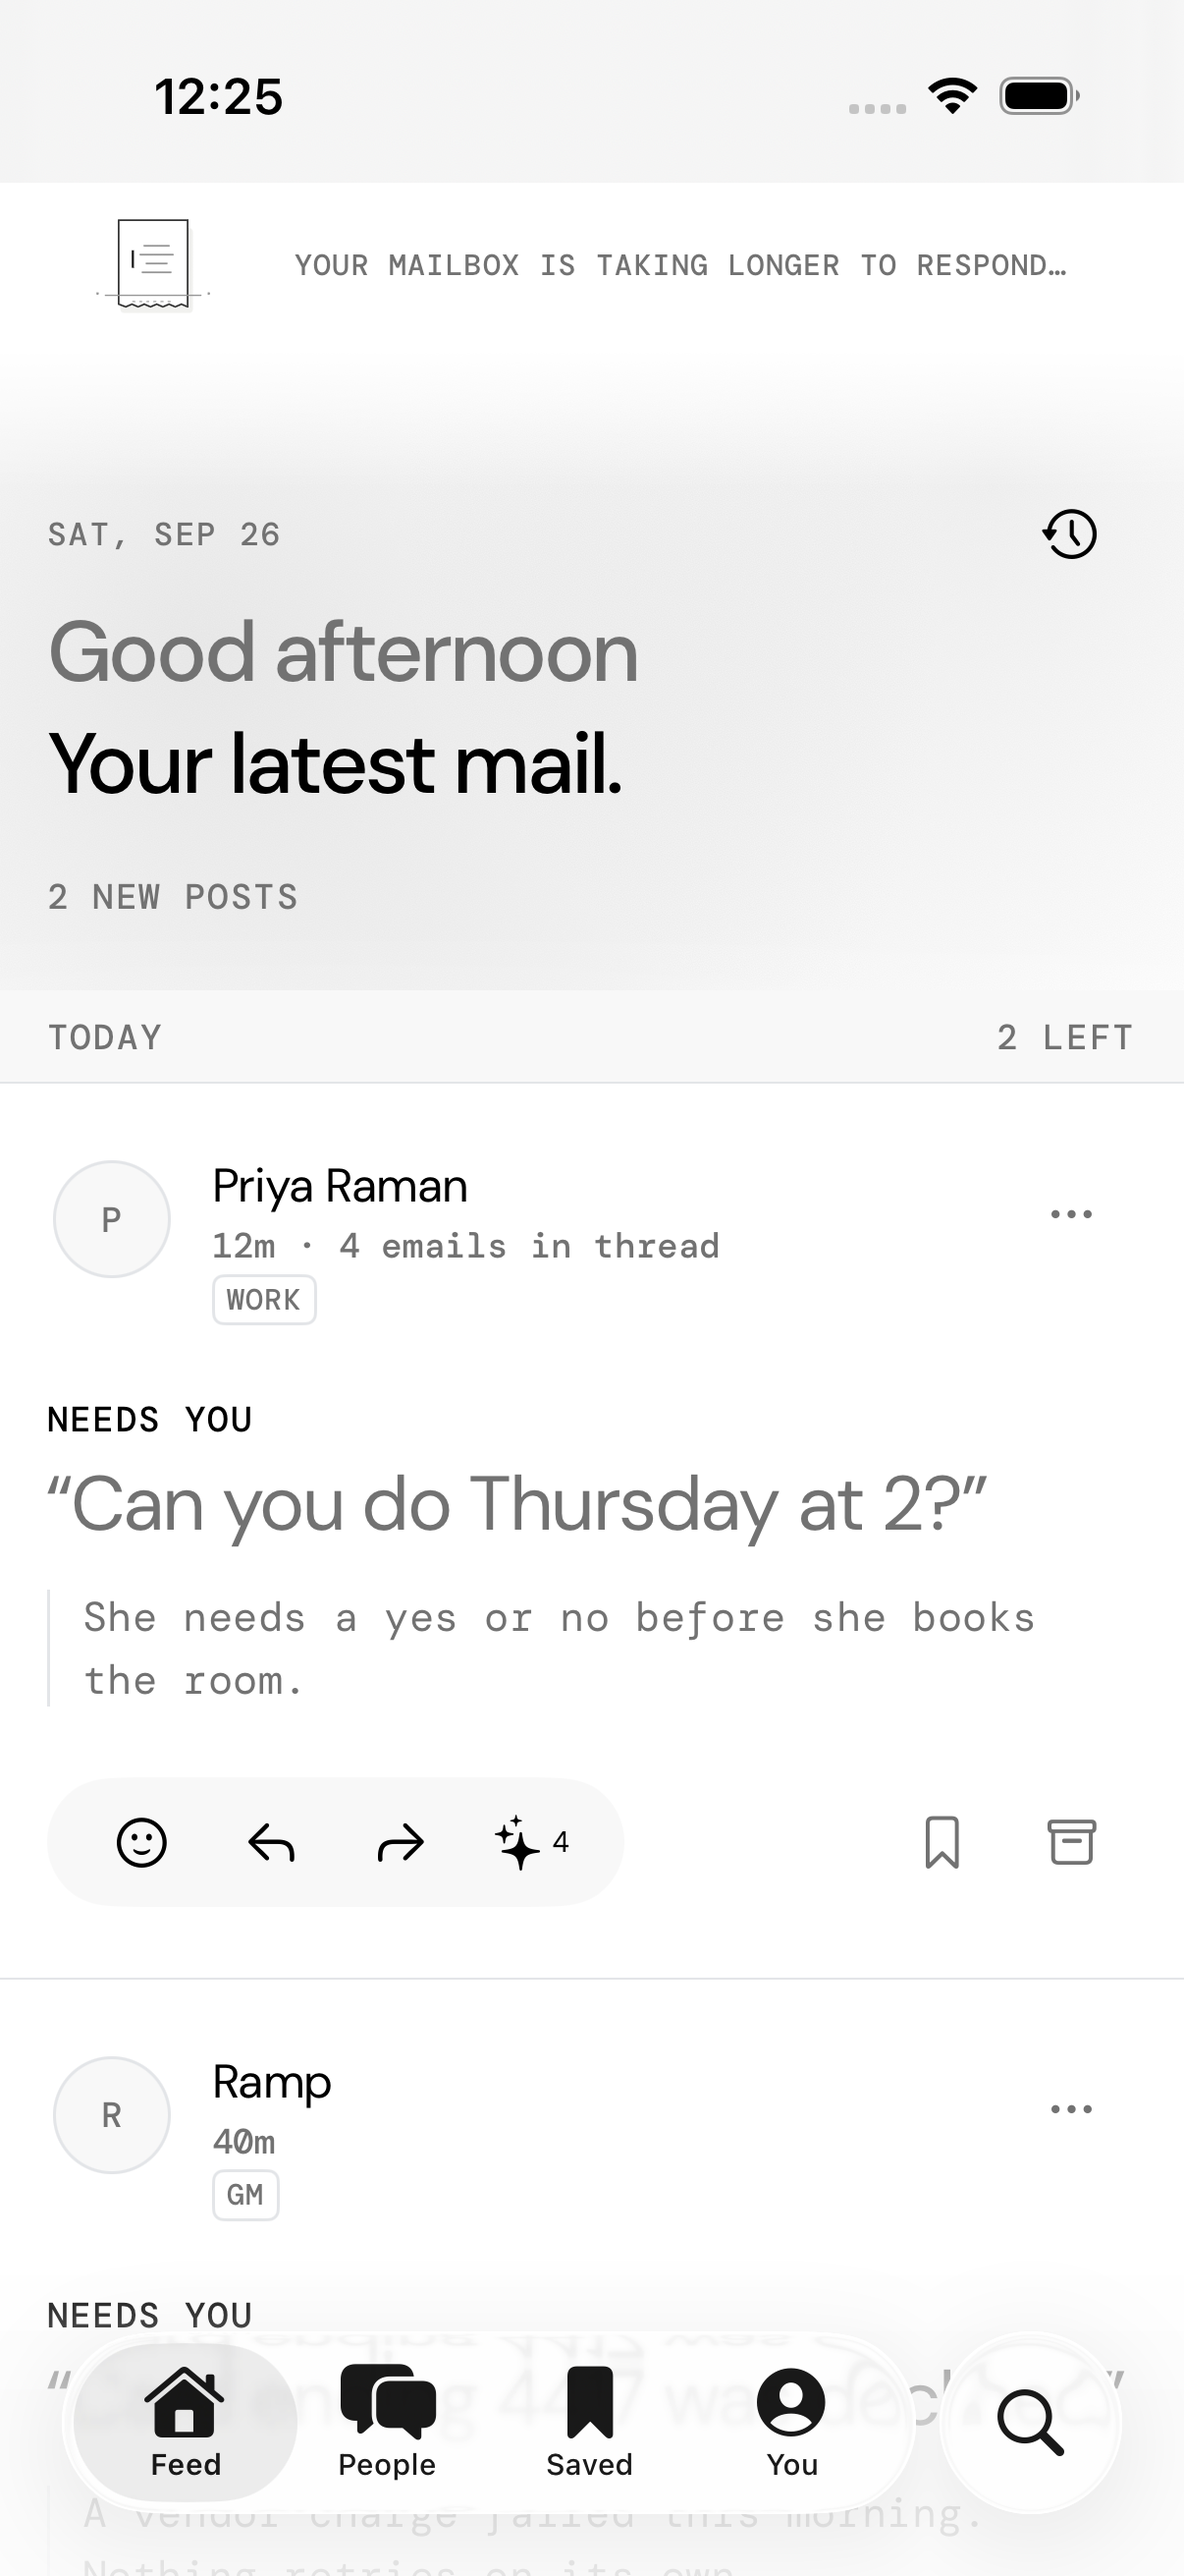
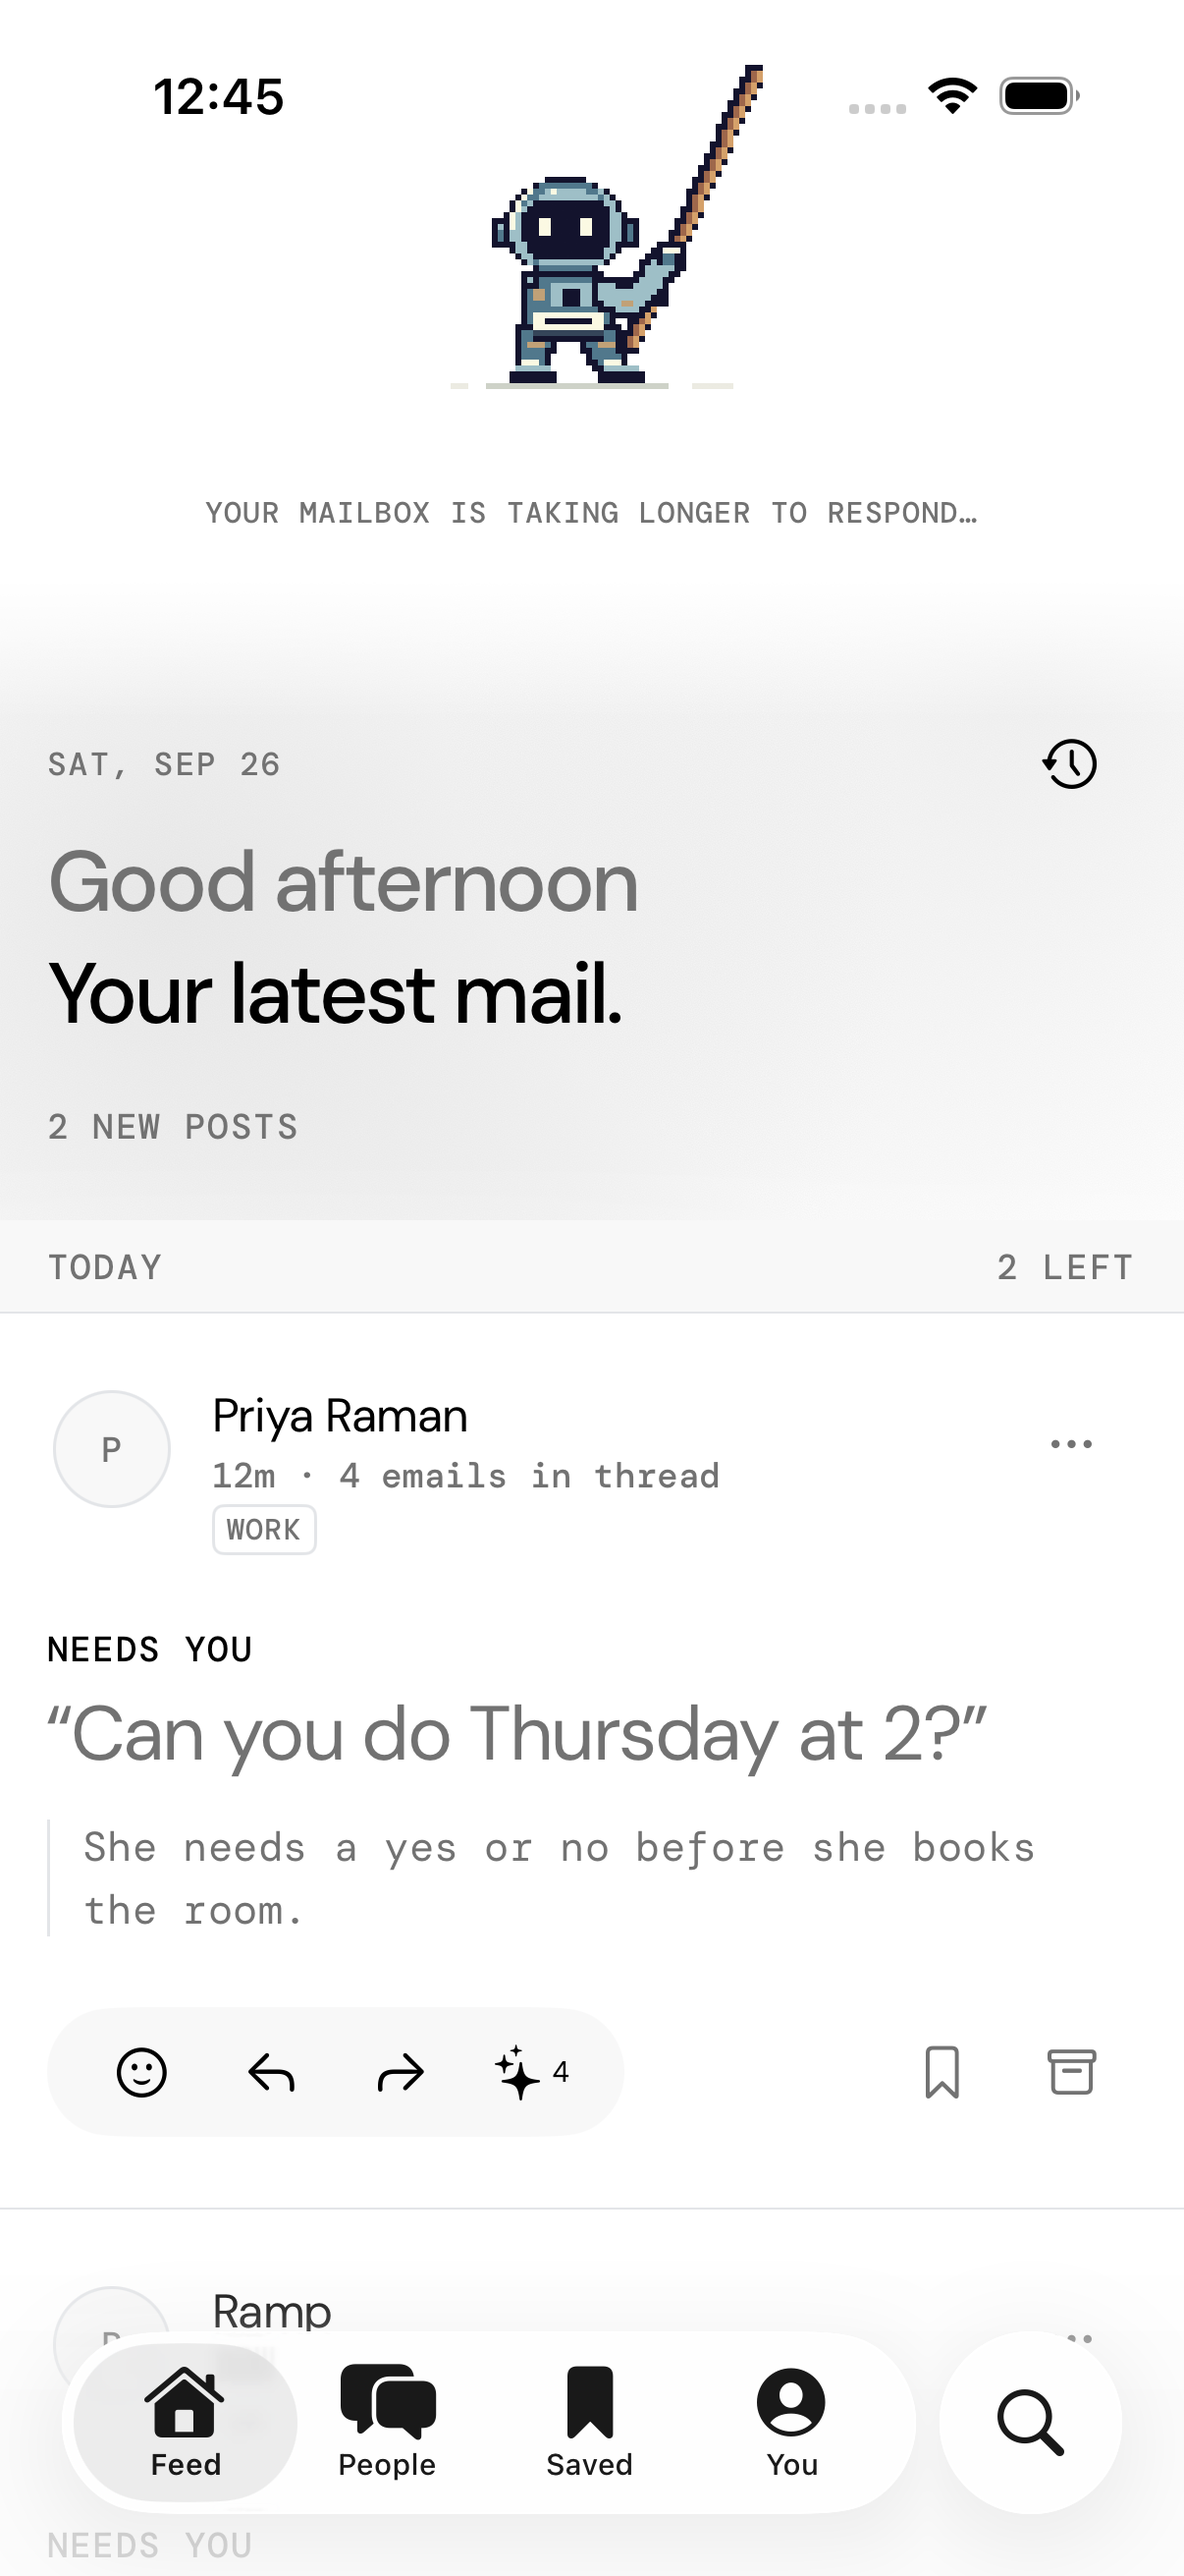
Record combined feed recovery checks and TestFlight upload [skip render]

diff --git a/product_docs/feed-recovery-2026-09-26.md b/product_docs/feed-recovery-2026-09-26.md
@@ -9,7 +9,7 @@ Craig reported a persistent “Marked complete” banner, scroll passes that did
 - Google refresh-token responses with HTTP 400 / `invalid_grant` now surface the existing reconnection path. One-time authorization-code failures, malformed responses and transient server errors remain retryable. The saved real-account Simulator grant returned this exact error in 0.28 seconds; no message body, token or account identity was included in diagnostic output. This establishes the Simulator failure, not the iPhone's exact failure.
 - An unauthorized read exposes Reconnect and retains its recorded intent. Successful reconnection delivers those saved reads, preserves current-session cards, and reconnects the live arrival stream. The pull status also distinguishes Reconnect from Retry.
 
-## Verification in progress
+## Verification
 
 - The completed-banner test failed before its fix and passes afterward.
 - Production FeedStore integration: 168 checks passed, including reconnection recovery and banner persistence.
@@ -17,12 +17,15 @@ Craig reported a persistent “Marked complete” banner, scroll passes that did
 - Full native Simulator test build passed for arm64 and x86_64.
 - Native touch suite on iOS 26.5: all six checks passed. The same refresh-read check failed against the older binary and passed against the correction (`/tmp/di-260926-refresh-before.xcresult`, `/tmp/di-260926-recovery-ui.xcresult`).
 - Three strengthened native checks passed: visible section count decreases plus read-card removal next session; count/read updates during held refresh; completed banner dismissal with the honest receipt retained in Activity (`/tmp/di-260926-count-banner-ui.xcresult`).
-- Live-account recovery remains in progress; no TestFlight upload is claimed in this record yet.
+- Final combined recovery + robot implementation: all seven native touch tests passed on iOS 26.5, zero failures in 111.6 seconds (`/tmp/di-260926-combined-ui-final.xcresult`). Retained captures prove the reduced count/read state during robot refresh and the completed Activity receipt.
+- Live-account recovery remains pending Google sign-in. The cached real feed and explicit Reconnect state were verified; authenticated refresh/read confirmation is not claimed. Distribution is recorded separately in `native-release-2609261241.md`.
 
-Simulator initially stalled before app launch on both iOS runtimes, including a fresh device. After the other task stopped its QA device, shutting down the simulators and restarting Simulator.app, CoreSimulatorService and SimulatorTrampoline recovered native launches. Account storage was preserved. Infrastructure startup failures were not counted as app test failures.
+Simulator initially stalled before app launch on both iOS runtimes, including a fresh device. After the other task stopped its QA device, shutting down the simulators and restarting Simulator.app, CoreSimulatorService and SimulatorTrampoline recovered native launches. Account storage was preserved. Later combined runs also stalled before runner launch. Restarting the Simulator launch services and using one QA device at a time recovered the final seven-test suite. This restart closed the pending Google login; the live-account flow was reopened afterward. Infrastructure startup failures were not counted as app test failures.
 
 ## Design and release coordination
 
 The product spec and existing [Figma session notes](https://www.figma.com/design/LlstGMGXZrDiY2Ee4dd3yl/Email-App-Component-Library?node-id=341-780), supporting receipt note, and recovery-board annotation were updated. Changes are behavior annotations, without a new visual direction or private email content.
 
-Implementation is isolated in `codex/feed-recovery-isolated-260926`, based on `7f290ec`, while the Animation task works on the refresh robot artwork. The animation commit will be integrated before the coordinated release and its refresh gesture check repeated. Model, native UI, live-account and physical-device evidence remain separate.
+The work began in `codex/feed-recovery-isolated-260926`, based on `7f290ec`. Animation commit `ffee594` was integrated as `01d5135`; merge `e2a57fa` reconciles both histories in the original checkout with the same tested tree. Superseded early local edits are preserved in a named stash and `/tmp/di-original-owned-recovery.patch`. Model, native UI, live-account and physical-device evidence remain separate.
+
+The [native verification board](https://www.figma.com/design/LlstGMGXZrDiY2Ee4dd3yl/Email-App-Component-Library?node-id=380-1879) now includes actual combined-build synthetic captures and recovery/arrival-state notes. Both placeholders were cleared and the complete board was visually checked for layout/clipping. No private mail or contact images were uploaded.

diff --git a/product_docs/native-release-2609261241.md b/product_docs/native-release-2609261241.md
@@ -1,0 +1,32 @@
+# Feed recovery and robot refresh — 1.0 (2609261241)
+
+September 26, 2026. One combined release includes the feed recovery fixes and the Animation task’s user-selected robot artwork. It supersedes 2609210445. Implementation tree: merge `e2a57fa`, identical to the tested combined branch `01d5135`; the merge preserves both tasks’ histories.
+
+## Resulting behavior
+
+- Real scroll passes reduce the section count even while a refresh is running. Confirmed-read cards stay in the current feed session and leave on the next app/tab/refresh boundary.
+- Marking the final pending unsubscribe handoff complete dismisses its global summary; its honest **Marked complete by you** receipt stays in Activity. Replay/relaunch do not restore that completed banner. Other pending work stays visible.
+- An expired Google refresh grant surfaces **Reconnect**, retains read intents, and sends them after successful reconnection. Temporary network errors still offer **Retry**. This repairs recovery rather than promising that Google consent never expires.
+- The robot knocks at the phone edge. Falling envelopes are driven by newly arrived message identities; successful refresh without arrivals remains quiet. Native text/actions, reduced-motion static drawing and runtime lifetime gates are preserved.
+
+Details: [recovery audit](feed-recovery-2026-09-26.md), [artwork contract](mailroom-robot-2026-09-26.md), and [Figma verification](https://www.figma.com/design/LlstGMGXZrDiY2Ee4dd3yl/Email-App-Component-Library?node-id=380-1879).
+
+## Verification
+
+- Production FeedStore integration: **168 checks passed**.
+- AccountConnectionPolicy: **18 checks passed**.
+- RefreshArrivalSnapshot: **7 checks passed**.
+- Combined native **FeedGestures** suite: **7 tests passed, 0 failures**, 111.6 seconds, iPhone 17 Pro / iOS 26.5. Real gestures cover read/count updates, refresh-time reading, next-visit removal, banner/receipt state, thread return, tab return and returning to the feed top. Result bundle: `/tmp/di-260926-combined-ui-final.xcresult`.
+- The refresh-read regression failed against the older local binary before passing against the correction. The banner regression also failed before the model fix. Initial combined attempts stalled before runner launch; restarting Simulator launch services recovered the final suite. Those attempts are not counted as app passes.
+- The artwork task’s native checks verified 116 state bindings and release of 16 temporary Rive configurations; 18 art rendering/structure checks passed.
[1 lines of base64/hex data omitted]
+
+The preserved real-account Simulator grant returned Google `invalid_grant`; the app’s cached feed and **Reconnect** state were inspected. Google sign-in is open in the fresh DecisionInbox-Recovery-QA Simulator, awaiting the user. Authenticated refresh, read delivery and a real arrival bubble remain unverified in this turn. Synthetic proofs are [retained here](../tools/motion-lab/native-qa/feed-recovery-260926/README.md). No real send, unsubscribe, archive, deletion or account disconnect was performed. No physical-device performance pass is claimed.
+
+## Distribution
+
+**Xcode Organizer uploaded 1.0 (2609261241) to Apple at 12:47 EDT on September 26.** Its completion screen and submission status both identify this build. [Upload confirmation](../tools/motion-lab/native-qa/feed-recovery-260926/upload-2609261241.jpg).
+
+Archive: `~/Library/Developer/Xcode/Archives/2026-09-26/DecisionInbox 2026-09-26 12.41.xcarchive`.
+
+Apple processing and the Internal group’s Testing status are not yet verified: App Store Connect in Chrome requires the user to sign in. Upload success is not a claim that the build is already available to testers. Tester membership was not changed. Native-only changes require no backend deployment; the previously live backend remains `a6e9043`.

diff --git a/tools/motion-lab/native-qa/feed-recovery-260926/README.md b/tools/motion-lab/native-qa/feed-recovery-260926/README.md
@@ -1,12 +1,15 @@
 # September 26 feed recovery evidence
 
-Synthetic mail captured by native XCTest on iPhone 17 Pro / iOS 26.5. Both images follow real forward swipes and a Feed-tab retap to inspect the retained first card. The test asserted that its accessibility value became **Read** and that the **TODAY** count became smaller than its starting value.
+Synthetic mail captured by native XCTest on iPhone 17 Pro / iOS 26.5 from the combined recovery and robot-artwork implementation. The first two images follow real forward swipes and a Feed-tab retap to inspect the retained first card. The test asserted that its accessibility value became **Read** and that the **TODAY** count became smaller than its starting value.
 
 - `read-and-count.png`: read card remains in the current session with the reduced count.
-- `read-during-refresh.png`: the same checks pass while the illustrated refresh is held open. This capture uses the pre-integration receipt artwork; the separately refined robot artwork needs its own combined check.
+- `read-during-refresh.png`: the same checks pass while the robot refresh is held open.
+- `completed-receipt.png`: the global completion banner was dismissed; reopening Activity retains the honest user-reported receipt.
 
-The first test then switches Saved → Feed and asserts the read card is absent. A separate native test reports completion of a synthetic unsubscribe handoff, verifies the global banner disappears, then opens Activity and finds **Marked complete by you**. No real unsubscribe, send, archive or deletion is performed.
+The first test then switches Saved → Feed and asserts the read card is absent. The Activity test reports completion of a synthetic unsubscribe handoff, verifies the global banner disappears, then opens Activity and finds **Marked complete by you**. No real unsubscribe, send, archive or deletion is performed.
 
-Result bundles: `/tmp/di-260926-recovery-ui.xcresult` (six passing touch checks); `/tmp/di-260926-count-banner-ui.xcresult` (three strengthened passing checks). `/tmp/di-260926-refresh-before.xcresult` reproduces the refresh-read failure against the older binary.
+Final combined result bundle: `/tmp/di-260926-combined-ui-final.xcresult` — all seven native touch tests passed, zero failures, 111.6 seconds. The implementation matches release archive 2609261241; the test bundle is excluded from that archive. Two preceding combined attempts stalled before runner launch and are infrastructure failures, not passing app tests.
+
+Earlier bundles: `/tmp/di-260926-recovery-ui.xcresult` (six passing checks); `/tmp/di-260926-count-banner-ui.xcresult` (three strengthened checks). `/tmp/di-260926-refresh-before.xcresult` reproduces the refresh-read failure against the older local binary.
 
 These images do not establish physical-device frame pacing, haptic feel, or the live-account reconnection result.

diff --git a/product_docs/figma-audit-2026-09-19.md b/product_docs/figma-audit-2026-09-19.md
@@ -110,3 +110,8 @@ That feedback does not establish the new read-delivery or navigation fixes.
 ## People tab badge · September 20
 
 The canonical main-board tabbed screens now include an illustrative native People badge of 2, matching the People masthead example. It counts conversations, independently of the app-icon email total. The runtime badge loads before People is visited, follows confirmed unread reconciliation, hides at zero, and preserves known state on failure. Partial history uses loaded unread conversations until the aggregate is verified. Native Simulator showed 9 on the tab and 9 UNREAD LOADED inside People; the design illustration is not a mailbox total. Opening a conversation's read policy remains a separate user question.
+
+
+## Feed recovery and robot refresh · September 26
+
+Updated current session, Activity receipt and recovery annotations (`341:1070`, `341:1071`, `339:811`, `348:1137`) to match refresh-time reading, durable reconnection and completed-banner dismissal. Added a [native verification board](https://www.figma.com/design/LlstGMGXZrDiY2Ee4dd3yl/Email-App-Component-Library?node-id=380-1879) on the existing Native screens page. It contains two genuine synthetic XCTest captures from the combined recovery + robot implementation: reduced TODAY count with a retained read card during refresh, and the honest Activity receipt after banner dismissal. Seven actual-touch tests passed. Arrival/no-arrival, static reduced-motion and expired-consent rules are annotated. This is verification evidence alongside the editable design boards, not an editable screenshot reconstruction or a physical-device performance claim. Both image placeholders are cleared; the rendered board has no clipped annotations.

diff --git a/product_docs/mailroom-robot-2026-09-26.md b/product_docs/mailroom-robot-2026-09-26.md
@@ -36,7 +36,7 @@ Reduce Motion and renderer failure use `MailroomStill.swift`, generated from the
[1 lines of base64/hex data omitted]
 - An initial Simulator attempt stalled before launch. The Main task recovered CoreSimulator; running just the iOS 26.5 QA runtime then allowed installation and the successful suite above. The interrupted attempt is not counted as a test pass. All art/gesture checks use synthetic mail; no authenticated mailbox was used.
 
-No TestFlight upload was performed for this change. The Main task owns the coordinated release with its separate recovery fixes, after native verification is available. Previous release records are not evidence that this robot has shipped.
+The Main task subsequently combined this artwork with the recovery fixes, passed all seven native touch checks, and uploaded **1.0 (2609261241)** at 12:47 EDT on September 26. See the [combined release record](native-release-2609261241.md) for archive validation, upload evidence and the distinction between upload and verified tester availability.
 
 Reproduce the identity checks:
 
